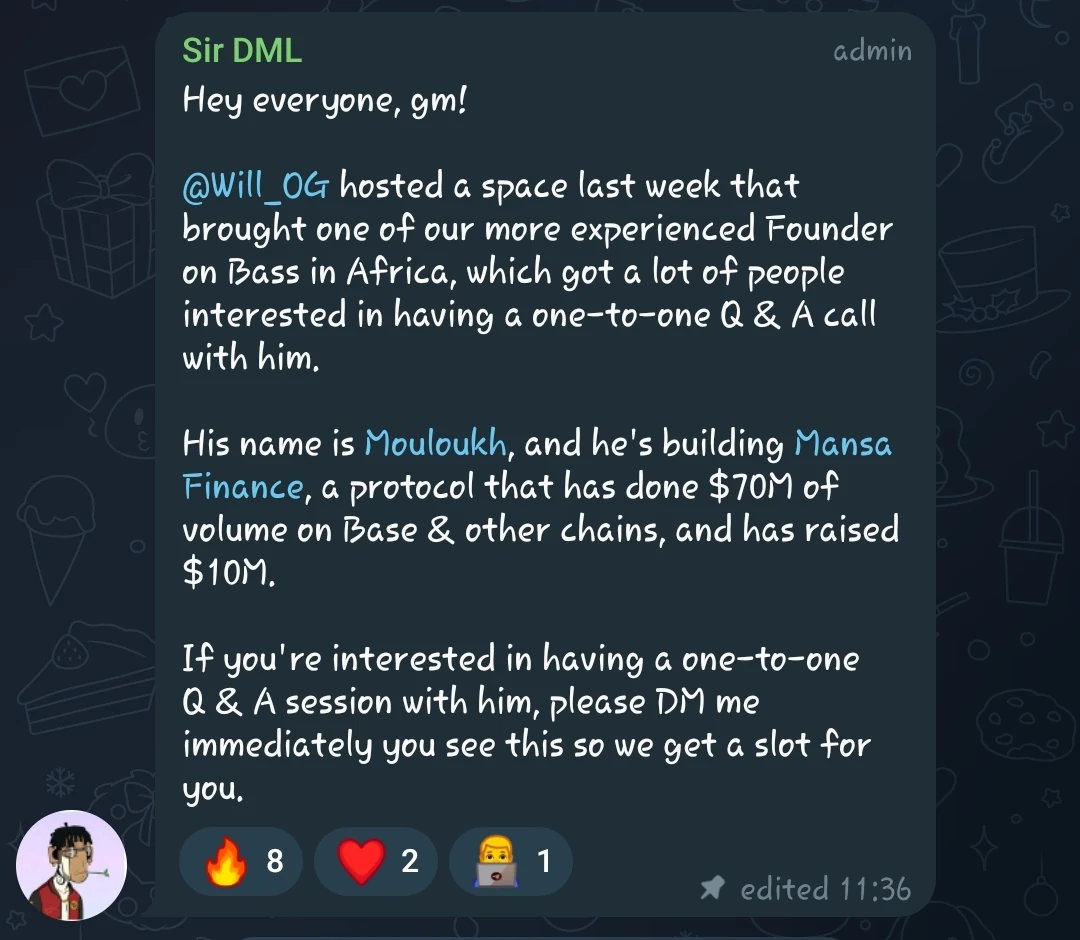
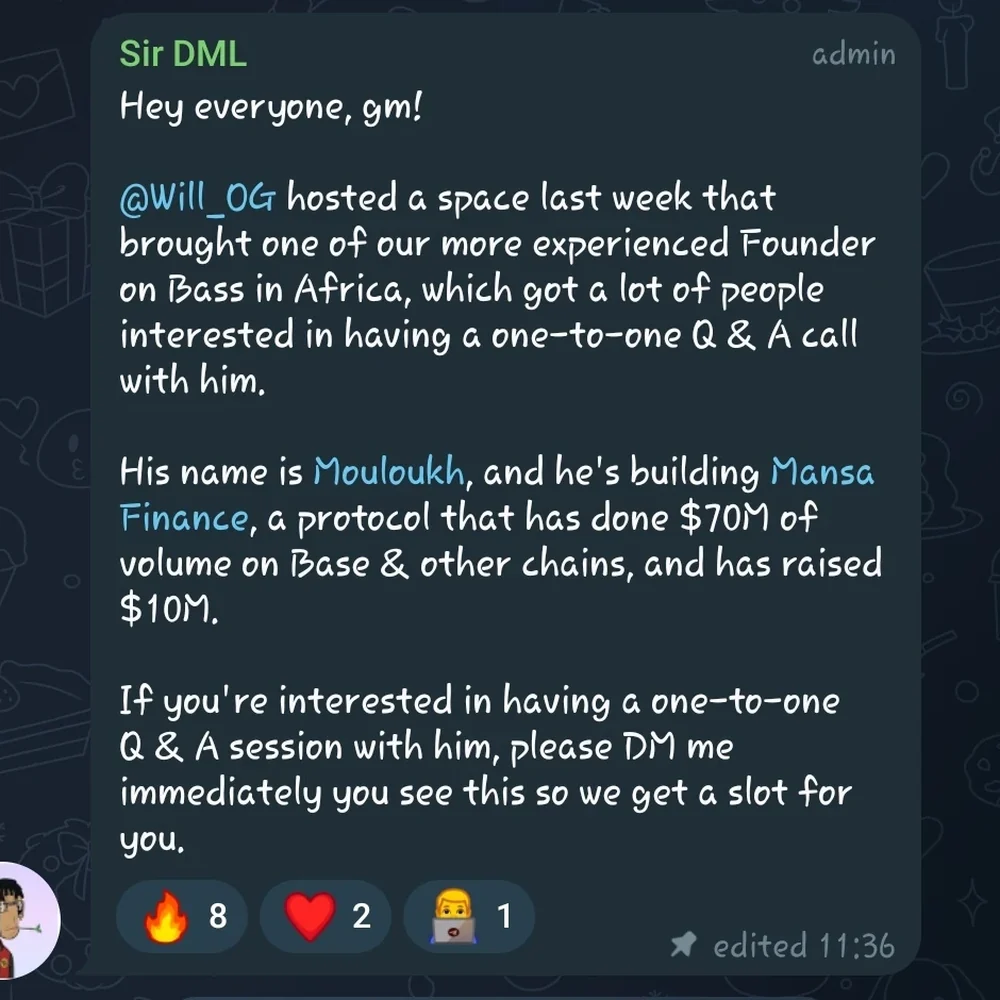
Crop the newly added wheel images to the same 1000x1000 square as the rest

diff --git a/index.html b/index.html
@@ -518,21 +518,21 @@
         <!-- An orbit of pictures from my events (see js/orbit-gallery.js): it turns by itself, one picture at a time, and the one at the right-hand anchor pops up large in the card beside it. Tap a picture to feature it; drag to spin. -->
         <div class="og" id="og" aria-label="Pictures from my events">
           <div class="og-ring">
-            <button type="button" class="og-card" data-title="Base Batch Workshop" data-sub="Planning team" aria-label="Base Batch Workshop: Planning team"><img src="assets/images/event-base-batch-workshop.webp" width="1500" height="1000" alt="Attendees seated at the Base Batch workshop, with a Builder badge in the foreground" loading="lazy" decoding="async" draggable="false"></button>
+            <button type="button" class="og-card" data-title="Base Batch Workshop" data-sub="Planning team" aria-label="Base Batch Workshop: Planning team"><img src="assets/images/event-base-batch-workshop.webp?v=3" width="1000" height="1000" alt="Attendees seated at the Base Batch workshop, with a Builder badge in the foreground" loading="lazy" decoding="async" draggable="false"></button>
             <button type="button" class="og-card" data-event="sip-and-ship" data-title="Sip &amp; Ship With Onboard" data-sub="Guests together after the live feedback session." aria-label="Sip &amp; Ship With Onboard: Guests together after the live feedback session."><img src="assets/images/sip-and-ship/group.webp" width="1000" height="1000" alt="Group photo of the Sip and Ship guests" loading="lazy" decoding="async" draggable="false"></button>
             <button type="button" class="og-card" data-event="sip-and-ship" data-title="Sip &amp; Ship With Onboard" data-sub="A branded bottle, notebook and Get Onboard box for guests." aria-label="Sip &amp; Ship With Onboard: A branded bottle, notebook and Get Onboard box for guests."><img src="assets/images/sip-and-ship/swag.webp" width="1000" height="1000" alt="Onboard swag: a branded bottle, notebook and Get Onboard box" loading="lazy" decoding="async" draggable="false"></button>
             <button type="button" class="og-card" data-event="sip-and-ship" data-title="Sip &amp; Ship With Onboard" data-sub="Guests with their Get Onboard tote bags." aria-label="Sip &amp; Ship With Onboard: Guests with their Get Onboard tote bags."><img src="assets/images/sip-and-ship/tote-bags.webp" width="1000" height="1000" alt="Two guests holding Get Onboard tote bags" loading="lazy" decoding="async" draggable="false"></button>
             <button type="button" class="og-card" data-event="fbi-africa-meetup" data-title="FBI Africa Meetup" data-sub="The speakers poster for the launch and meetup." aria-label="FBI Africa Meetup: The speakers poster for the launch and meetup."><img src="assets/images/fbi-meetup/speakers.webp" width="1000" height="1000" alt="FBI in Africa: meet our speakers poster" loading="lazy" decoding="async" draggable="false"></button>
             <button type="button" class="og-card" data-title="Base Batch Marketing Workshop" data-sub="I hosted a marketing workshop for Base Batch builders." aria-label="Base Batch Marketing Workshop: I hosted a marketing workshop for Base Batch builders."><img src="assets/images/event-base-batch-marketing.webp" width="1000" height="1000" alt="Live stream of the Base Batch marketing workshop, with a slide on founder-led marketing" loading="lazy" decoding="async" draggable="false"></button>
-            <button type="button" class="og-card" data-event="fbi-africa-meetup" data-title="FBI Africa Meetup" data-sub="The FBI x Base meetup cake." aria-label="FBI Africa Meetup: The FBI x Base meetup cake."><img src="assets/images/fbi-meetup/cake.webp?v=2" width="1500" height="1000" alt="The FBI x Base meetup cake" loading="lazy" decoding="async" draggable="false"></button>
+            <button type="button" class="og-card" data-event="fbi-africa-meetup" data-title="FBI Africa Meetup" data-sub="The FBI x Base meetup cake." aria-label="FBI Africa Meetup: The FBI x Base meetup cake."><img src="assets/images/fbi-meetup/cake.webp?v=3" width="1000" height="1000" alt="The FBI x Base meetup cake" loading="lazy" decoding="async" draggable="false"></button>
             <button type="button" class="og-card" data-event="fbi-africa-meetup" data-title="FBI Africa Meetup" data-sub="A keynote speaker presenting to the room." aria-label="FBI Africa Meetup: A keynote speaker presenting to the room."><img src="assets/images/fbi-meetup/speaking.webp" width="1000" height="1000" alt="A speaker presenting at the FBI Africa meetup" loading="lazy" decoding="async" draggable="false"></button>
-            <button type="button" class="og-card" data-event="fbi-africa-meetup" data-title="FBI Africa Meetup" data-sub="Everyone who showed up for the launch." aria-label="FBI Africa Meetup: Everyone who showed up for the launch."><img src="assets/images/fbi-meetup/group.webp?v=2" width="1500" height="1000" alt="Group photo of everyone at the FBI Africa meetup" loading="lazy" decoding="async" draggable="false"></button>
+            <button type="button" class="og-card" data-event="fbi-africa-meetup" data-title="FBI Africa Meetup" data-sub="Everyone who showed up for the launch." aria-label="FBI Africa Meetup: Everyone who showed up for the launch."><img src="assets/images/fbi-meetup/group.webp?v=3" width="1000" height="1000" alt="Group photo of everyone at the FBI Africa meetup" loading="lazy" decoding="async" draggable="false"></button>
             <button type="button" class="og-card" data-event="graph-birthday" data-title="The Graph Birthday Celebration" data-sub="The stage and podium under the purple balloons, Lagos." aria-label="The Graph Birthday Celebration: The stage and podium under the purple balloons, Lagos."><img src="assets/images/event-graph-birthday.webp" width="1000" height="1000" alt="The Graph Network 3-Year Birthday Celebration stage in Lagos" loading="lazy" decoding="async" draggable="false"></button>
             <button type="button" class="og-card" data-event="graph-birthday" data-title="The Graph Birthday Celebration" data-sub="Guests together under the purple balloons." aria-label="The Graph Birthday Celebration: Guests together under the purple balloons."><img src="assets/images/graph-birthday/group.webp" width="1000" height="1000" alt="Group photo of guests under the purple balloons" loading="lazy" decoding="async" draggable="false"></button>
             <button type="button" class="og-card" data-event="graph-birthday" data-title="The Graph Birthday Celebration" data-sub="A guest at the wooden entrance to the event." aria-label="The Graph Birthday Celebration: A guest at the wooden entrance to the event."><img src="assets/images/graph-birthday/entrance.webp" width="1000" height="1000" alt="A guest at the wooden entrance to The Graph birthday event" loading="lazy" decoding="async" draggable="false"></button>
             <button type="button" class="og-card" data-event="graph-advocate" data-title="The Graph Advocate" data-sub="Speaking at the WeaveDB Campus Meetup." aria-label="The Graph Advocate: Speaking at the WeaveDB Campus Meetup."><img src="assets/images/graph-advocate/speaking.webp" width="1000" height="1000" alt="Speaking at the WeaveDB Campus Meetup" loading="lazy" decoding="async" draggable="false"></button>
-            <button type="button" class="og-card" data-event="graph-advocate" data-title="The Graph Advocate" data-sub="Builders at their laptops during a Graph Africa session." aria-label="The Graph Advocate: Builders at their laptops during a Graph Africa session."><img src="assets/images/graph-advocate/selfie.webp?v=2" width="1200" height="1600" alt="Builders at their laptops during a Graph Africa session" loading="lazy" decoding="async" draggable="false"></button>
-            <button type="button" class="og-card" data-title="Founder Space" data-sub="A space with Mouloukh of Mansa Finance that opened up one-to-one Q&amp;A calls for the community." aria-label="Founder Space: A space with Mouloukh of Mansa Finance that opened up one-to-one Q&amp;A calls for the community."><img src="assets/images/event-founder-space.webp" width="1080" height="940" alt="Telegram announcement of a space with Mouloukh of Mansa Finance and the one-to-one Q&amp;A sessions that followed" loading="lazy" decoding="async" draggable="false"></button>
+            <button type="button" class="og-card" data-event="graph-advocate" data-title="The Graph Advocate" data-sub="Builders at their laptops during a Graph Africa session." aria-label="The Graph Advocate: Builders at their laptops during a Graph Africa session."><img src="assets/images/graph-advocate/selfie.webp?v=3" width="1000" height="1000" alt="Builders at their laptops during a Graph Africa session" loading="lazy" decoding="async" draggable="false"></button>
+            <button type="button" class="og-card" data-title="Founder Space" data-sub="A space with Mouloukh of Mansa Finance that opened up one-to-one Q&amp;A calls for the community." aria-label="Founder Space: A space with Mouloukh of Mansa Finance that opened up one-to-one Q&amp;A calls for the community."><img src="assets/images/event-founder-space.webp?v=3" width="1000" height="1000" alt="Telegram announcement of a space with Mouloukh of Mansa Finance and the one-to-one Q&amp;A sessions that followed" loading="lazy" decoding="async" draggable="false"></button>
           </div>
           <div class="og-centre">
             <div class="og-guide">

diff --git a/events.html b/events.html
@@ -99,7 +99,7 @@
       </button>
       <button type="button" class="ev-close" aria-expanded="false" aria-controls="fbi-africa-meetup-panel" aria-label="Close FBI Africa Meetup" tabindex="-1"><span aria-hidden="true"></span></button>
       <div class="ev-stage" id="fbi-africa-meetup-panel" role="region" aria-label="FBI Africa Meetup">
-        <div class="ev-pic"><span class="ev-media ev-slides" data-slides><img class="ev-slide is-current" src="assets/images/event-fbi-africa.webp" width="1080" height="1080" alt="FBI in Africa community launch and meetup poster: 28 September, 9am WAT, Lagos, Nigeria" decoding="async"><img class="ev-slide" src="assets/images/fbi-meetup/speakers.webp" width="1000" height="1000" alt="FBI in Africa: meet our speakers poster" loading="lazy" decoding="async"><img class="ev-slide" src="assets/images/fbi-meetup/photo-frame.webp" width="1000" height="1000" alt="Guests posing with the FBI photo frame at the meetup" loading="lazy" decoding="async"><img class="ev-slide" src="assets/images/fbi-meetup/cake.webp?v=2" width="1500" height="1000" alt="The FBI x Base meetup cake" loading="lazy" decoding="async"><img class="ev-slide" src="assets/images/fbi-meetup/speaking.webp" width="1000" height="1000" alt="A speaker presenting "What is Base" at the meetup" loading="lazy" decoding="async"><img class="ev-slide" src="assets/images/fbi-meetup/group.webp?v=2" width="1500" height="1000" alt="Group photo of everyone at the FBI Africa meetup" loading="lazy" decoding="async"></span><span class="ev-bars" aria-hidden="true"><i></i><i></i><i></i><i></i><i></i><i></i></span><span class="ev-cap" aria-live="polite"></span></div>
+        <div class="ev-pic"><span class="ev-media ev-slides" data-slides><img class="ev-slide is-current" src="assets/images/event-fbi-africa.webp" width="1080" height="1080" alt="FBI in Africa community launch and meetup poster: 28 September, 9am WAT, Lagos, Nigeria" decoding="async"><img class="ev-slide" src="assets/images/fbi-meetup/speakers.webp" width="1000" height="1000" alt="FBI in Africa: meet our speakers poster" loading="lazy" decoding="async"><img class="ev-slide" src="assets/images/fbi-meetup/photo-frame.webp" width="1000" height="1000" alt="Guests posing with the FBI photo frame at the meetup" loading="lazy" decoding="async"><img class="ev-slide" src="assets/images/fbi-meetup/cake.webp?v=3" width="1000" height="1000" alt="The FBI x Base meetup cake" loading="lazy" decoding="async"><img class="ev-slide" src="assets/images/fbi-meetup/speaking.webp" width="1000" height="1000" alt="A speaker presenting "What is Base" at the meetup" loading="lazy" decoding="async"><img class="ev-slide" src="assets/images/fbi-meetup/group.webp?v=3" width="1000" height="1000" alt="Group photo of everyone at the FBI Africa meetup" loading="lazy" decoding="async"></span><span class="ev-bars" aria-hidden="true"><i></i><i></i><i></i><i></i><i></i><i></i></span><span class="ev-cap" aria-live="polite"></span></div>
         <div class="ev-text">
           <p class="ev-count">02 <span>/ 05</span></p>
           <h2 class="ev-title">FBI Africa Meetup</h2>
@@ -143,7 +143,7 @@
       </button>
       <button type="button" class="ev-close" aria-expanded="false" aria-controls="graph-advocate-panel" aria-label="Close The Graph Advocate" tabindex="-1"><span aria-hidden="true"></span></button>
       <div class="ev-stage" id="graph-advocate-panel" role="region" aria-label="The Graph Advocate">
-        <div class="ev-pic"><span class="ev-media ev-slides" data-slides><img class="ev-slide is-current" src="assets/images/graph-advocate/speaking.webp" width="1000" height="1000" alt="Speaking at the WeaveDB Campus Meetup" decoding="async"><img class="ev-slide" src="assets/images/graph-advocate/hall.webp" width="1000" height="1000" alt="Builders working at a hackathon hall" loading="lazy" decoding="async"><img class="ev-slide" src="assets/images/graph-advocate/badge.webp" width="1000" height="1000" alt="A Buidl-a-thon name badge reading The Graph Africa" loading="lazy" decoding="async"><img class="ev-slide" src="assets/images/graph-advocate/selfie.webp?v=2" width="1200" height="1600" alt="Builders at their laptops during a Graph Africa session" loading="lazy" decoding="async"><img class="ev-slide" src="assets/images/graph-advocate/flyer.webp" width="1000" height="1000" alt="WeaveDB x Unilag Campus Club Campus MeetUp flyer" loading="lazy" decoding="async"><img class="ev-slide" src="assets/images/graph-advocate/web3lagos.webp" width="1000" height="1000" alt="Selfie at the Web3Lagos Conference 3.0" loading="lazy" decoding="async"></span><span class="ev-bars" aria-hidden="true"><i></i><i></i><i></i><i></i><i></i><i></i></span><span class="ev-cap" aria-live="polite"></span></div>
+        <div class="ev-pic"><span class="ev-media ev-slides" data-slides><img class="ev-slide is-current" src="assets/images/graph-advocate/speaking.webp" width="1000" height="1000" alt="Speaking at the WeaveDB Campus Meetup" decoding="async"><img class="ev-slide" src="assets/images/graph-advocate/hall.webp" width="1000" height="1000" alt="Builders working at a hackathon hall" loading="lazy" decoding="async"><img class="ev-slide" src="assets/images/graph-advocate/badge.webp" width="1000" height="1000" alt="A Buidl-a-thon name badge reading The Graph Africa" loading="lazy" decoding="async"><img class="ev-slide" src="assets/images/graph-advocate/selfie.webp?v=3" width="1000" height="1000" alt="Builders at their laptops during a Graph Africa session" loading="lazy" decoding="async"><img class="ev-slide" src="assets/images/graph-advocate/flyer.webp" width="1000" height="1000" alt="WeaveDB x Unilag Campus Club Campus MeetUp flyer" loading="lazy" decoding="async"><img class="ev-slide" src="assets/images/graph-advocate/web3lagos.webp" width="1000" height="1000" alt="Selfie at the Web3Lagos Conference 3.0" loading="lazy" decoding="async"></span><span class="ev-bars" aria-hidden="true"><i></i><i></i><i></i><i></i><i></i><i></i></span><span class="ev-cap" aria-live="polite"></span></div>
         <div class="ev-text">
           <p class="ev-count">04 <span>/ 05</span></p>
           <h2 class="ev-title">The Graph Advocate</h2>
